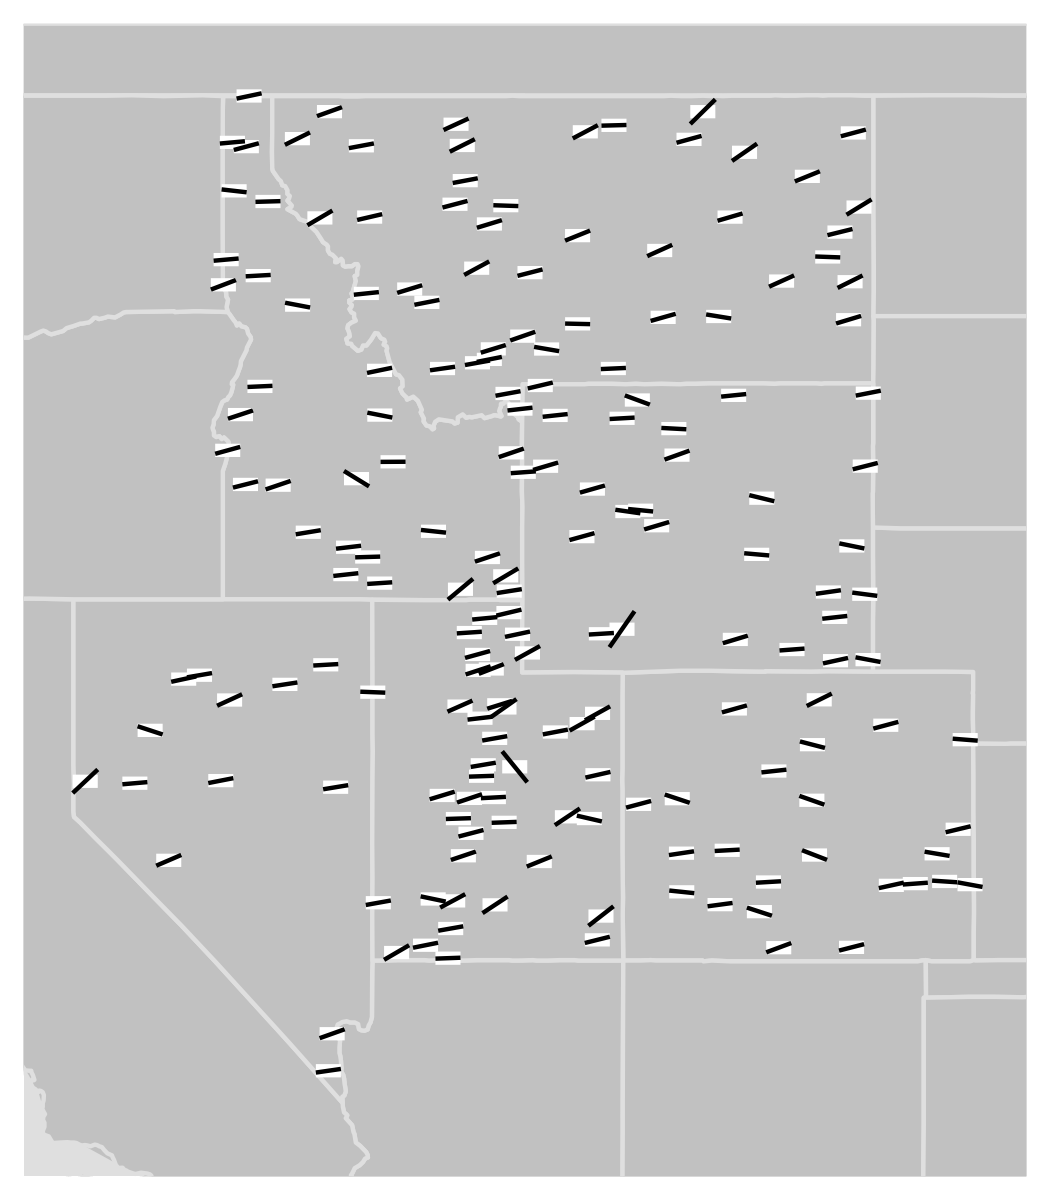
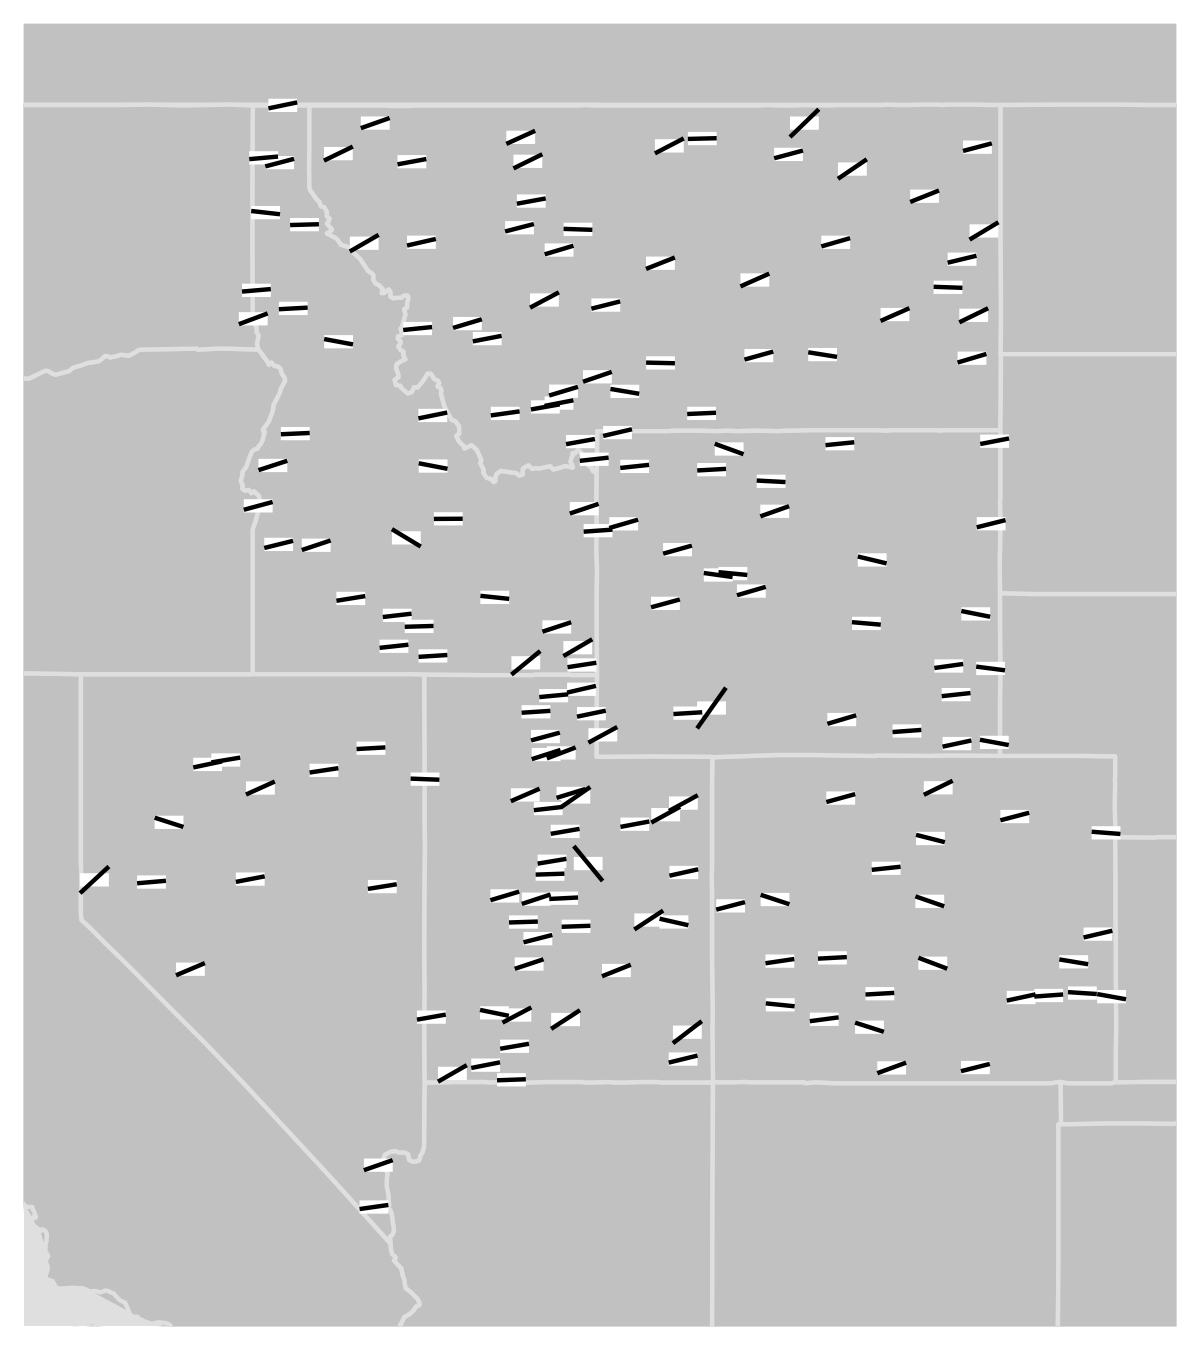
Fix aspect ratio of USHCN plots to match GISTEMP plots

diff --git a/paper.tex b/paper.tex
@@ -363,8 +363,8 @@ Glyph-maps work best when displayed in the coordinate system in which the grid i
 Figure \ref{fig:irregular} shows linear trends for monthly average surface temperature at stations in the USHCN data.  It illustrates three challenges in working with irregular locations: there is no natural choice for icon size, icons can potentially overlap, and comparisons rely more heavily on the reference guides.  The icon sizes were chosen manually for these two plots, although the icons are displayed at about the same size, they correspond to 1$^o$ and 0.5$^o$ square respectively in the geographical coordinates. 
 \begin{figure}[htbp]
   \centering
-  \includegraphics[width=0.55\linewidth]{usa-lin-overlap}%
-  \includegraphics[width=0.35\linewidth]{ghcn-mountains}%
+  \includegraphics[width=0.5\linewidth]{usa-lin-overlap}%
+  \includegraphics[width=0.25\linewidth]{ghcn-mountains}%
   \caption{Glyph-maps of the linear trend in ground station temperature values, 1950--2010, for USHCN stations (left) and stations in the mountain states (right).} 
   \label{fig:irregular}
 \end{figure}
